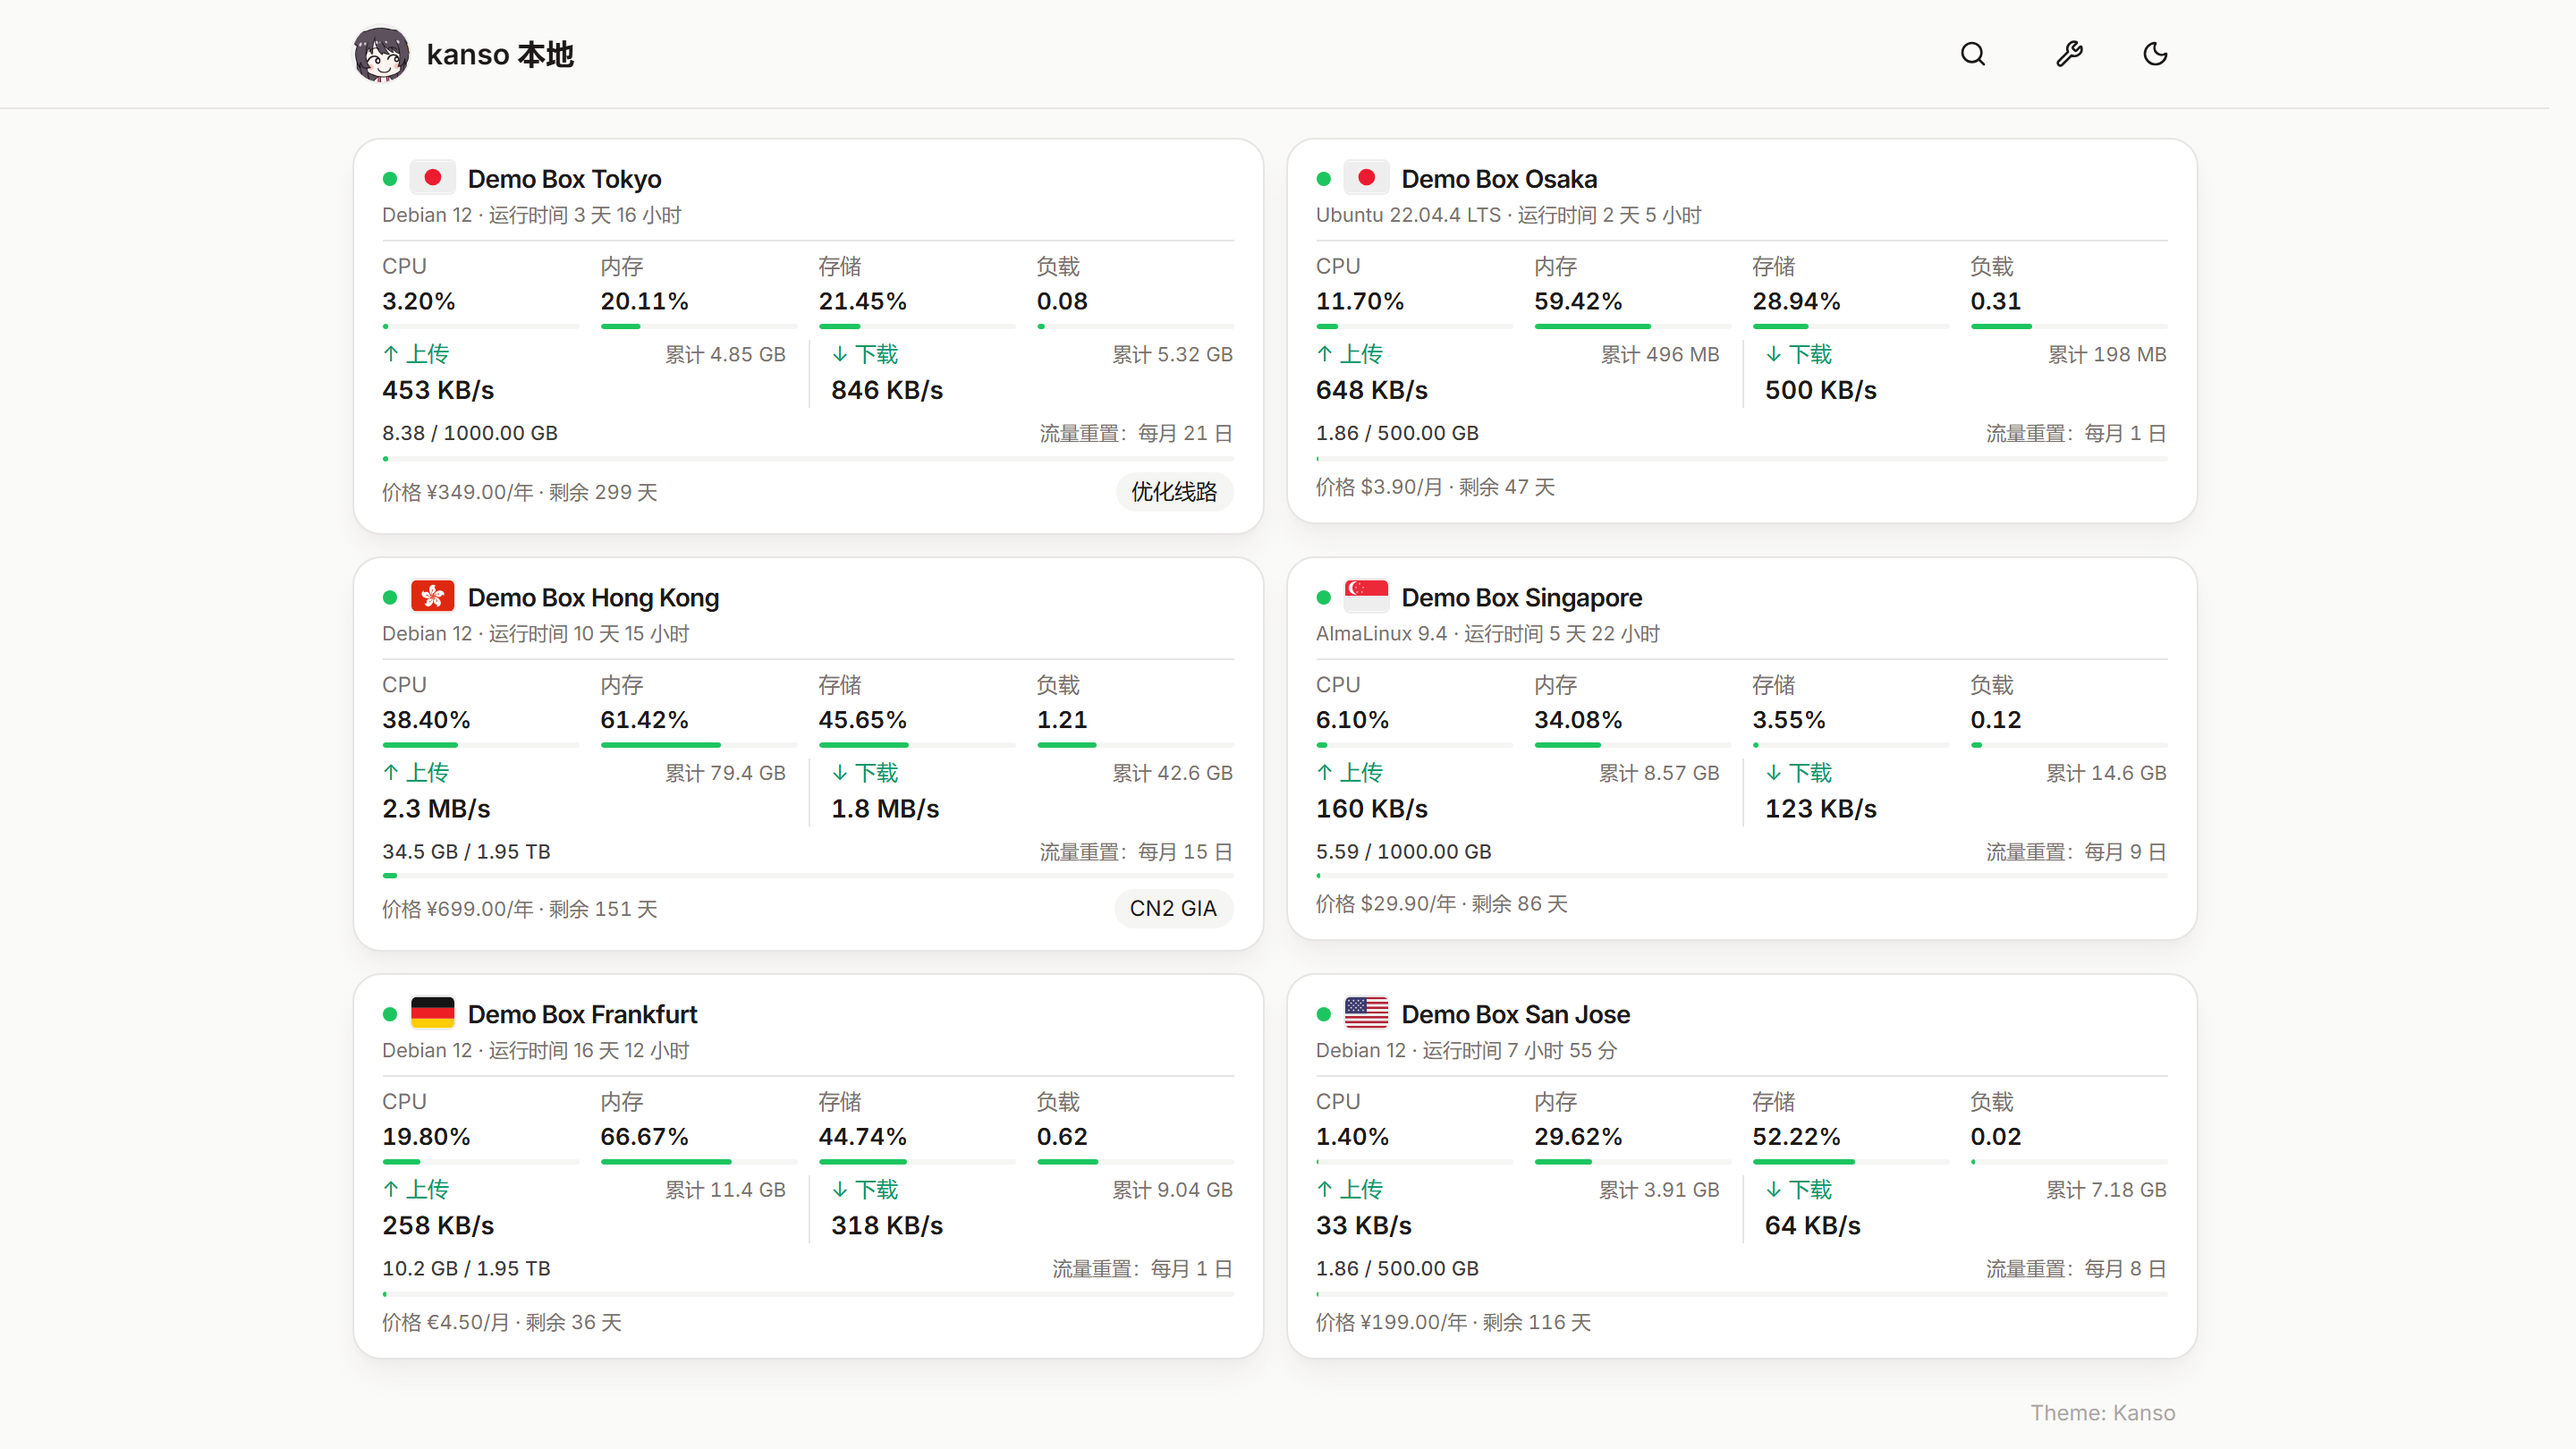
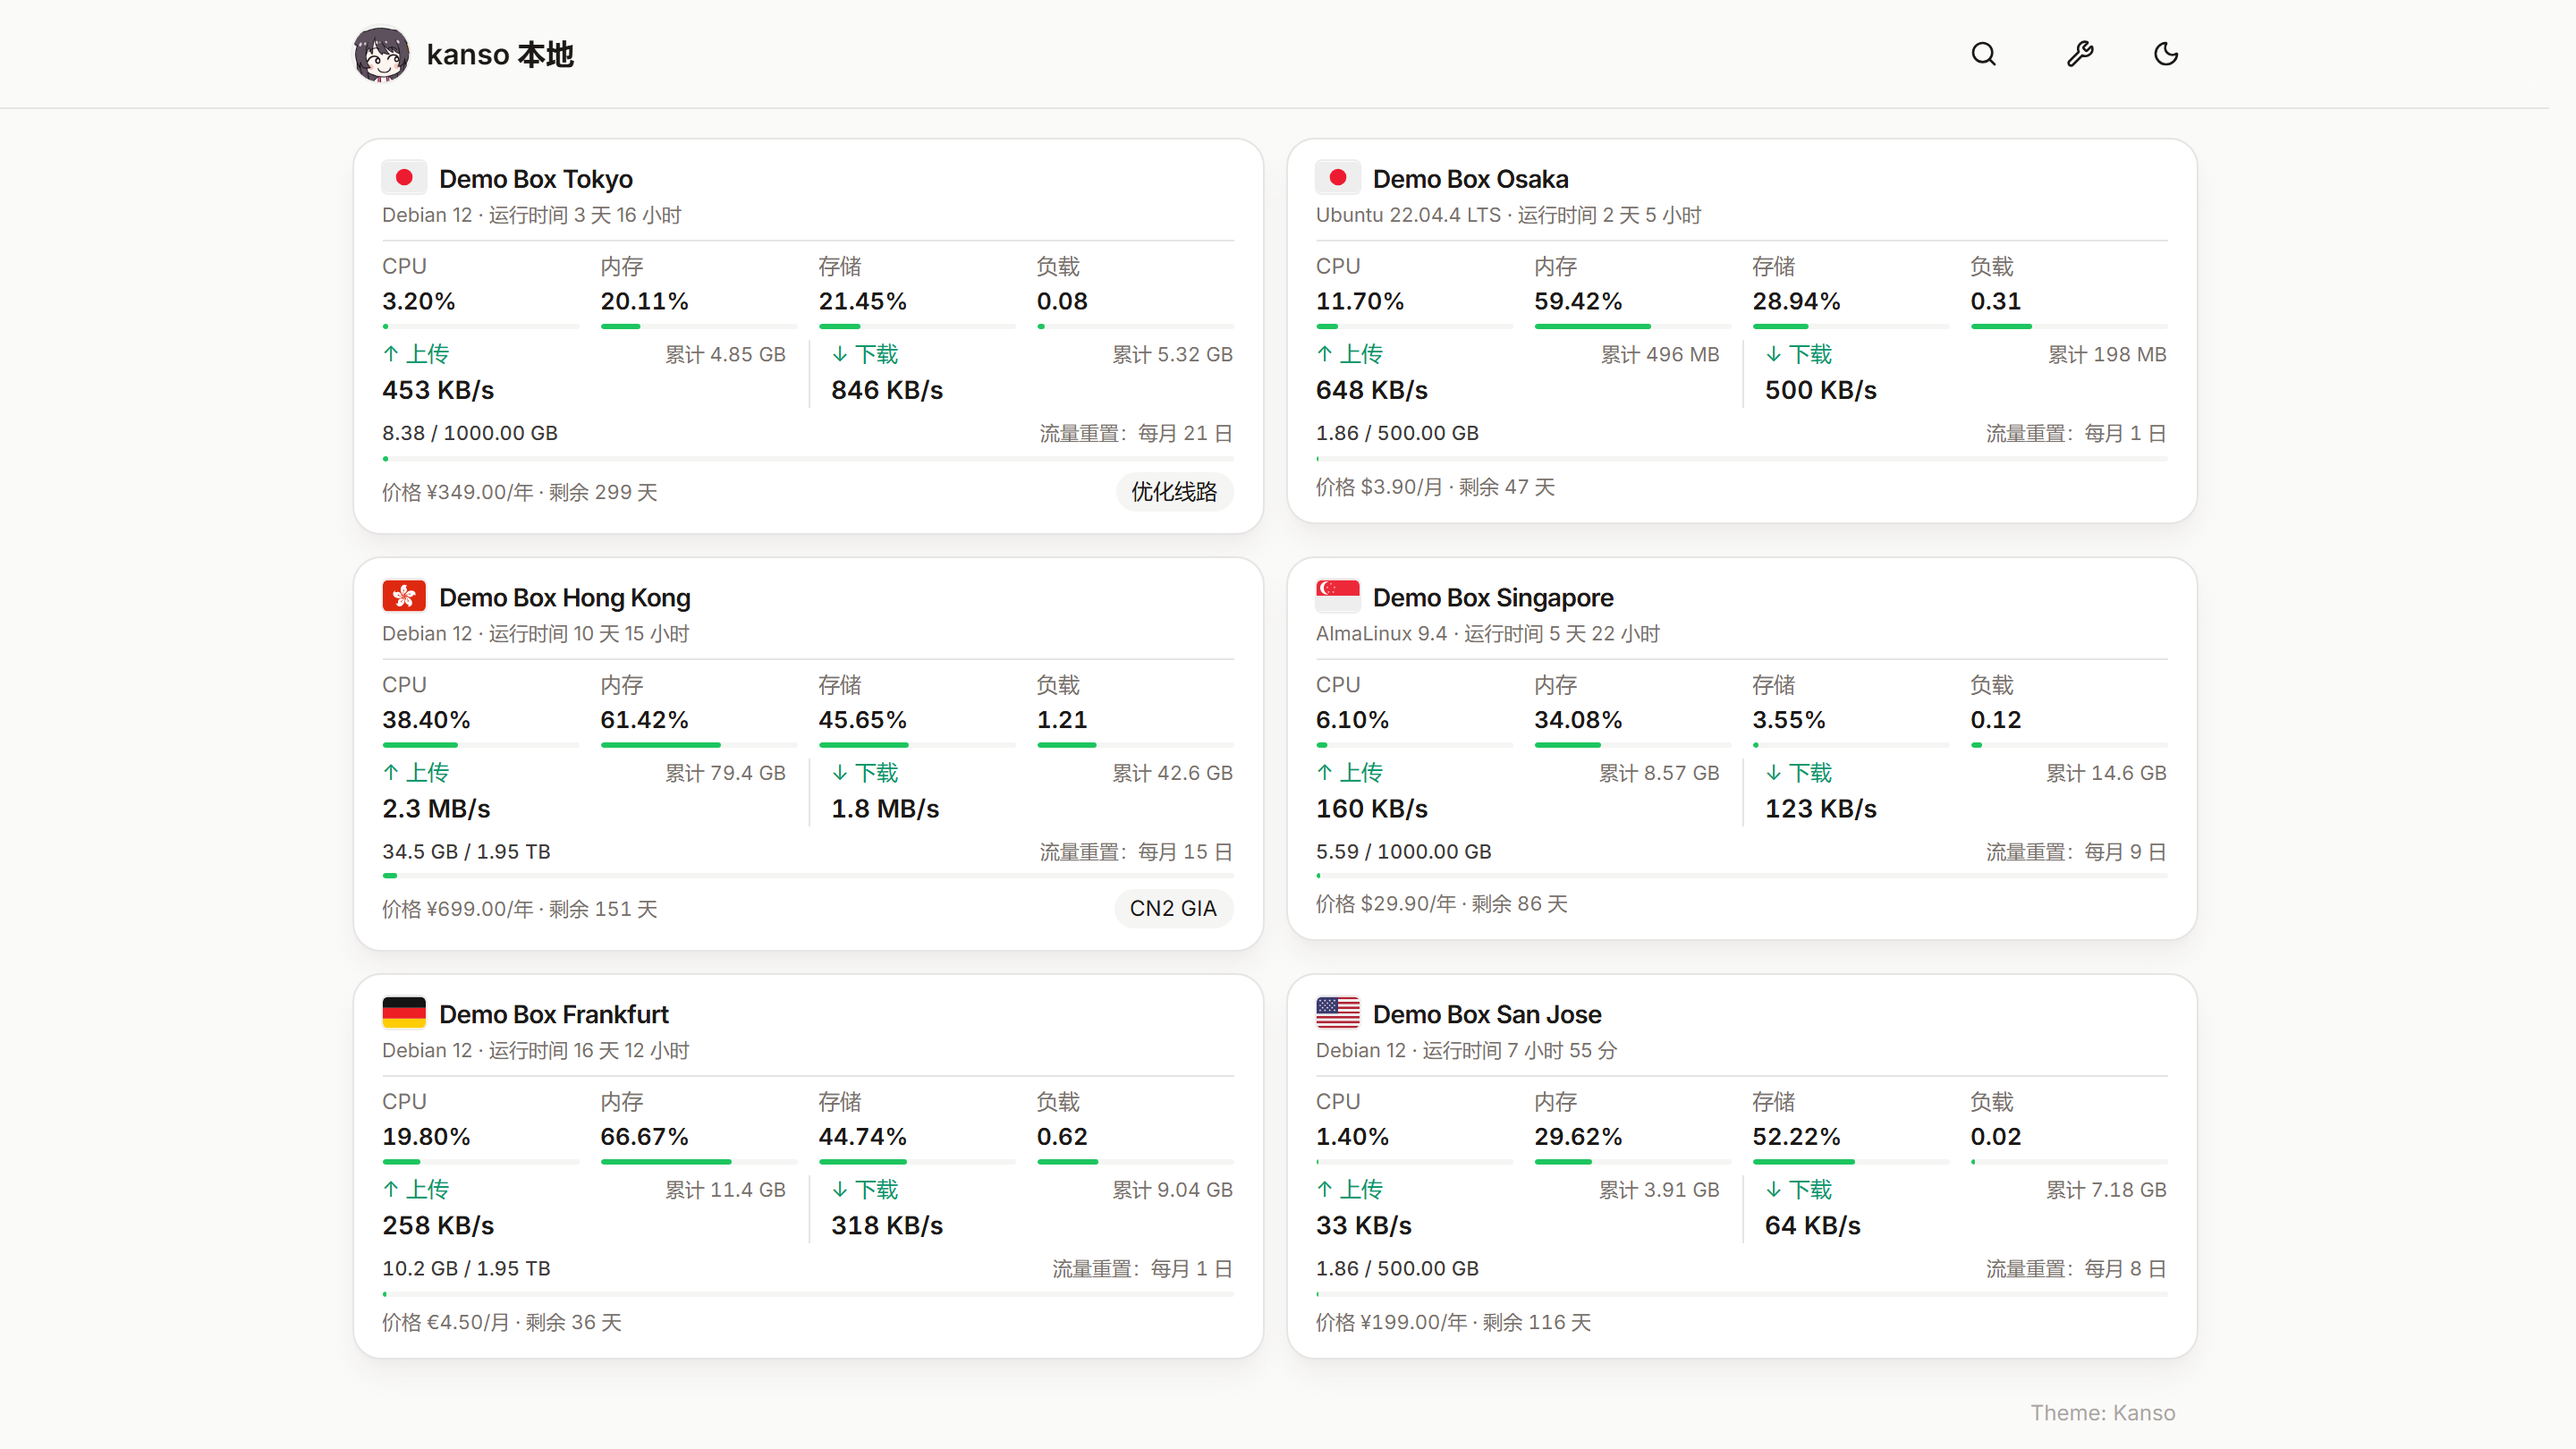
1.4.1：卡片去掉国旗旁那枚状态点（站长要求）；预览三件套重拍
- 身份行从「状态点 + 旗子 + 名字 +（掉线）已离线徽章」变成「旗子 + 名字 +（掉线）已离线徽章」：
  一页 30 张卡就是 30 个绿点，去掉之后左缘只剩旗子，在线与否交给**离线徽章**表达
  （在线什么都不带、掉线才盖一枚「已离线」）。掉线状态另有 meta 行的「· 已离线」与一列「—」读数兜底。
- 护栏锚点 `data-status`（on / off）从点挪到**卡根**上；verify_card_form 的 ① 段重写为
  「在线：锚 on + 无徽章 + 行首是旗子」「六张卡里都不再有状态点（卡内查不到锚）」，40/0 全绿。
- 预览三件套按新卡面重拍（面板「安装主题」的缩略图读的是包内 preview.png），README ?v=4 → ?v=5。

diff --git a/src/components/NodeCard.tsx b/src/components/NodeCard.tsx
@@ -54,7 +54,7 @@ export function offlineSeconds(node: Node): number {
 const CARD_CHIPS = 3
 
 /**
- * 这台机器此刻有没有实时数据（= 状态点点绿、四个读数格写实时值）。
+ * 这台机器此刻有没有实时数据（= 四个读数格写实时值；卡上没有状态点，见下面 ① 的说明）。
  * 与列表沉底是**同一判据**（`online && metrics`，见 App.tsx）：hub 对一个连上但还没上报的
  * agent 答的是 `online: true` + `metrics: null`，那时读数全是「—」，点不该是绿的。
  */
@@ -174,7 +174,7 @@ function trafficFoot(node: Node) {
  * 列表里的那张卡片（本主题唯一的一档，2026-10-15 照站长给的参考站重排）。
  *
  * 从上到下六块（行距、字号按参考站校准过：整卡 ~510×214，那边是 508×209）：
- *   ① 身份行：状态点 + 旗子 + 名字（离线时右端一枚「已离线」徽章）；
+ *   ① 身份行：旗子 + 名字（离线时右端一枚「已离线」徽章）；
  *   ② 一行灰字：系统 · 运行时间（四种处境的口径见 metaLine）；
  *   ③ 四个读数格：CPU / 内存 / 存储 / 负载（上面一条分隔线，见 Meter）；
  *   ④ 上传 / 下载：左右两栏，各带累计总量与实时速率，中间一道竖线；
@@ -217,22 +217,22 @@ export function NodeCard({ node, onOpen, onWarm, terms, selected }: {
       // data-node-card 是滚动定位（见 App 的 NodeList）与护栏共用的锚点；
       // data-selected 是「当前被键盘选中」的标记（护栏读它，不用去解析类名）。
       data-node-card={node.id}
+      data-status={on ? "on" : "off"}
       data-selected={selected ? "1" : undefined}
       className={`min-w-0 cursor-pointer gap-0 px-4 py-3 transition-colors hover:border-foreground/25 ${selected ? "outline-2 outline-offset-1 outline-ring" : ""}`}
       role="button"
       tabIndex={0}
       onKeyDown={(e) => (e.key === "Enter" || e.key === " ") && (e.preventDefault(), onOpen())}
     >
-      {/* ① 身份行：状态点 + 旗子 + 名字（+ 离线徽章）。
-          `data-status` 是护栏的锚点（on / off）；点自己不上文字，悬停说明给的是「在线 / 离线」。
+      {/* ① 身份行：旗子 + 名字（+ 离线徽章）。**没有状态点**。
+          ★那枚 8px 的绿 / 红点 2026-10-15 按站长的要求去掉了（「卡片上的国旗旁边的小圆点去掉」）：
+            在线与否现在只由**离线徽章**表达 —— 在线什么都不带、掉线才盖一枚「已离线」，
+            与原来「绿色点＝正常」相比少一处颜色噪音（一页 30 张卡就是 30 个绿点）。
+          ★`data-status`（on / off）改挂在**卡根**上（见下面那个 div）：它是护栏的锚点，
+            别再去卡里找那枚点（点没了，`querySelector('[data-status]')` 会返回 null）。
           名字加粗一档（参考站是 600）。搜索命中处描色（Highlight：mark 不改变 textContent，
           既有文案断言照旧；没在搜时它原样返回，零影响）。 */}
       <div className="flex min-w-0 items-center gap-2">
-        <span
-          data-status={on ? "on" : "off"}
-          title={on ? "在线" : "离线"}
-          className={"size-2 shrink-0 rounded-full " + (on ? "bg-ok" : "bg-down")}
-        />
         <Country node={node} />
         <h3 className="min-w-0 flex-1 truncate text-sm font-semibold leading-5 tracking-tight"><TextHighlight text={node.name} terms={terms} /></h3>
         {/* 徽章只给「接入过、现在掉线」的机器：从未接入的卡片下面那行说明已经说清了，

diff --git a/README.md b/README.md
@@ -1,6 +1,6 @@
 # kanso
 
-![kanso](preview.png?v=4)
+![kanso](preview.png?v=5)
 
 极简探针（[Monitor](https://github.com/monitor-probe/monitor)）的第三方主题，源码基于上游默认主题
 `monitor-theme-default` v1.1.0 改造。纯静态前端，只读 hub 的公开接口，
@@ -14,7 +14,7 @@
 
 | 亮色 | 暗色 | 手机 |
 |:---:|:---:|:---:|
-| ![预览](preview.png?v=4) | ![暗色](preview-dark.png?v=4) | ![手机](preview-mobile.png?v=4) |
+| ![预览](preview.png?v=5) | ![暗色](preview-dark.png?v=5) | ![手机](preview-mobile.png?v=5) |
 
 
 ## 关于备注
